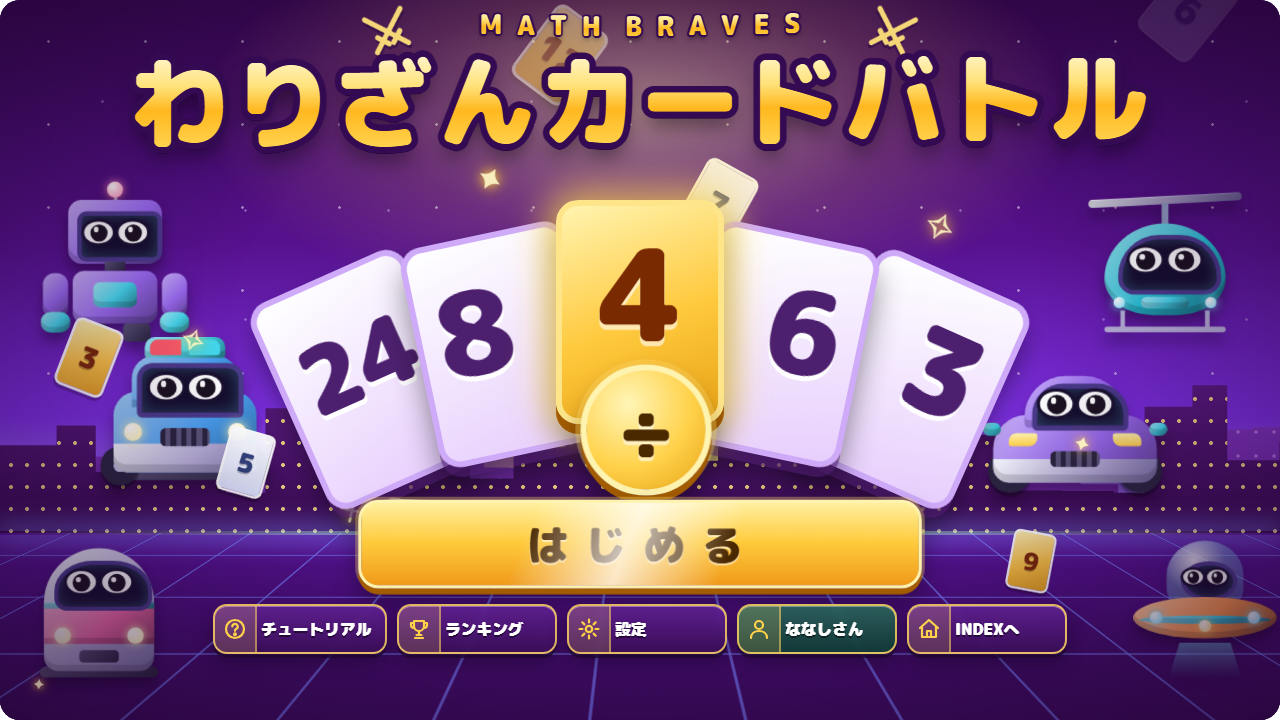
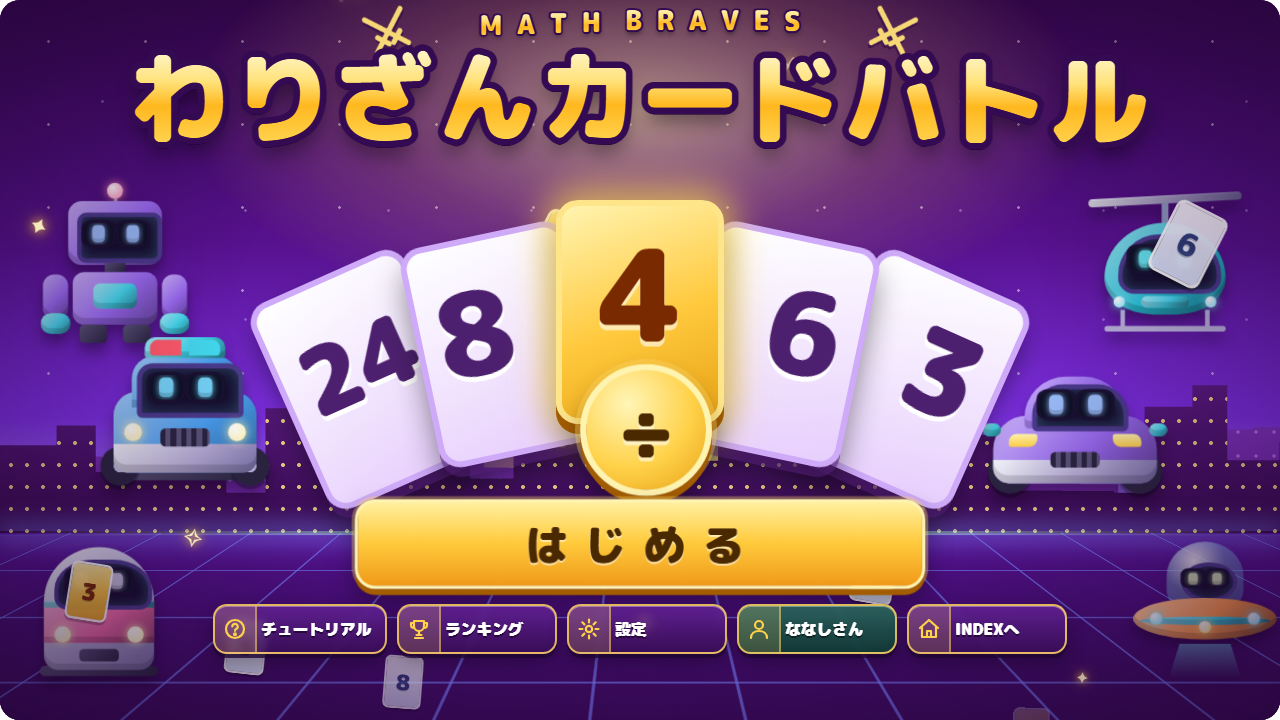
INDEX: かけざん・かけざん2・わりざんのサムネを、最新のタイトル画面(LEDの目・モンスター)に撮り直し

diff --git a/index.html b/index.html
@@ -1280,7 +1280,7 @@
                 <span class="mini-tag" data-i18n="tag_gr2">2年生〜</span>
             </div>
             <a href="Math_Braves_multiplication/Math_Braves_multiplication.html" class="media-container">
-                <img src="images/Math_Braves_multiplication.png?v=20261030" alt="かけざんカードバトル">
+                <img src="images/Math_Braves_multiplication.png?v=20261035" alt="かけざんカードバトル">
             </a>
             <div class="start-btn-area">
                 <a href="Math_Braves_multiplication/Math_Braves_multiplication.html" class="play-btn">ゲームスタート ▶</a>
@@ -1306,7 +1306,7 @@
                 <span class="mini-tag" data-i18n="tag_gr2">2年生〜</span>
             </div>
             <a href="Math_Braves_multiplication2/Math_Braves_multiplication2.html" class="media-container">
-                <img src="images/Math_Braves_multiplication2.png?v=20261034" alt="かけざんカードバトル２">
+                <img src="images/Math_Braves_multiplication2.png?v=20261035" alt="かけざんカードバトル２">
             </a>
             <div class="start-btn-area">
                 <a href="Math_Braves_multiplication2/Math_Braves_multiplication2.html" class="play-btn">ゲームスタート ▶</a>
@@ -1331,7 +1331,7 @@
                 <span class="mini-tag" data-i18n="tag_card">カード</span>
                 <span class="mini-tag" data-i18n="tag_gr3">3年生〜</span>            </div>
             <a href="Math_Braves_division/Math_Braves_division.html" class="media-container">
-                <img src="images/Math_Braves_division.png?v=20261030" alt="わりざんカードバトル">
+                <img src="images/Math_Braves_division.png?v=20261035" alt="わりざんカードバトル">
             </a>
             <div class="start-btn-area">
                 <a href="Math_Braves_division/Math_Braves_division.html" class="play-btn">ゲームスタート ▶</a>
